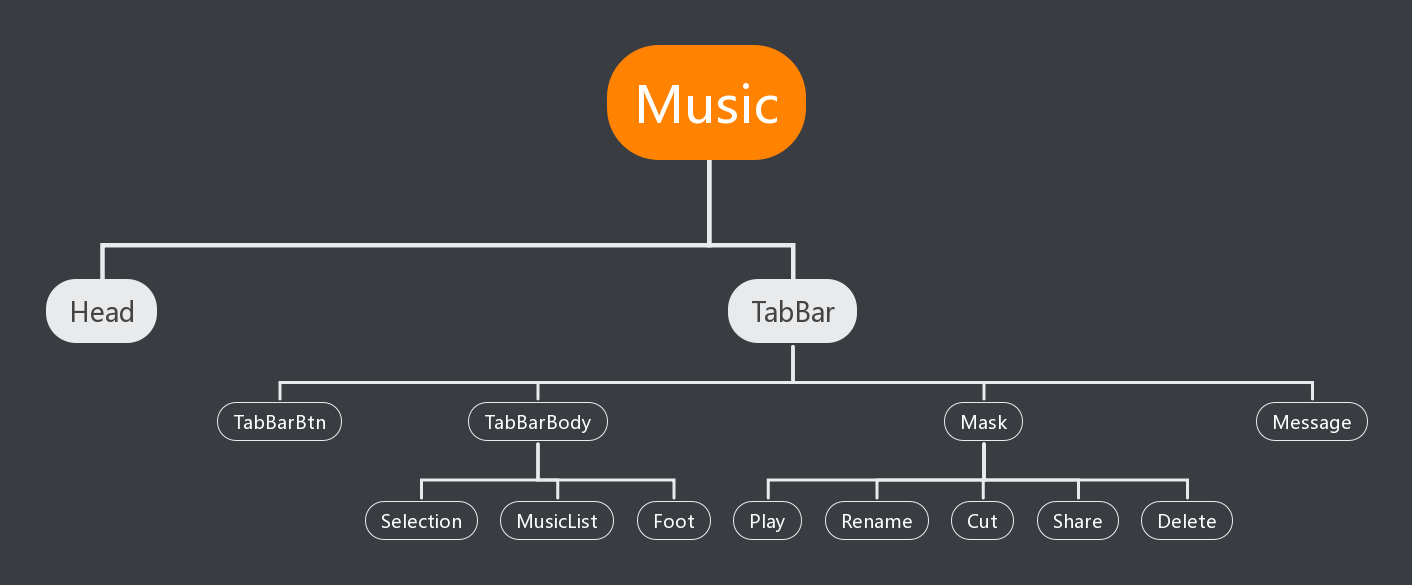
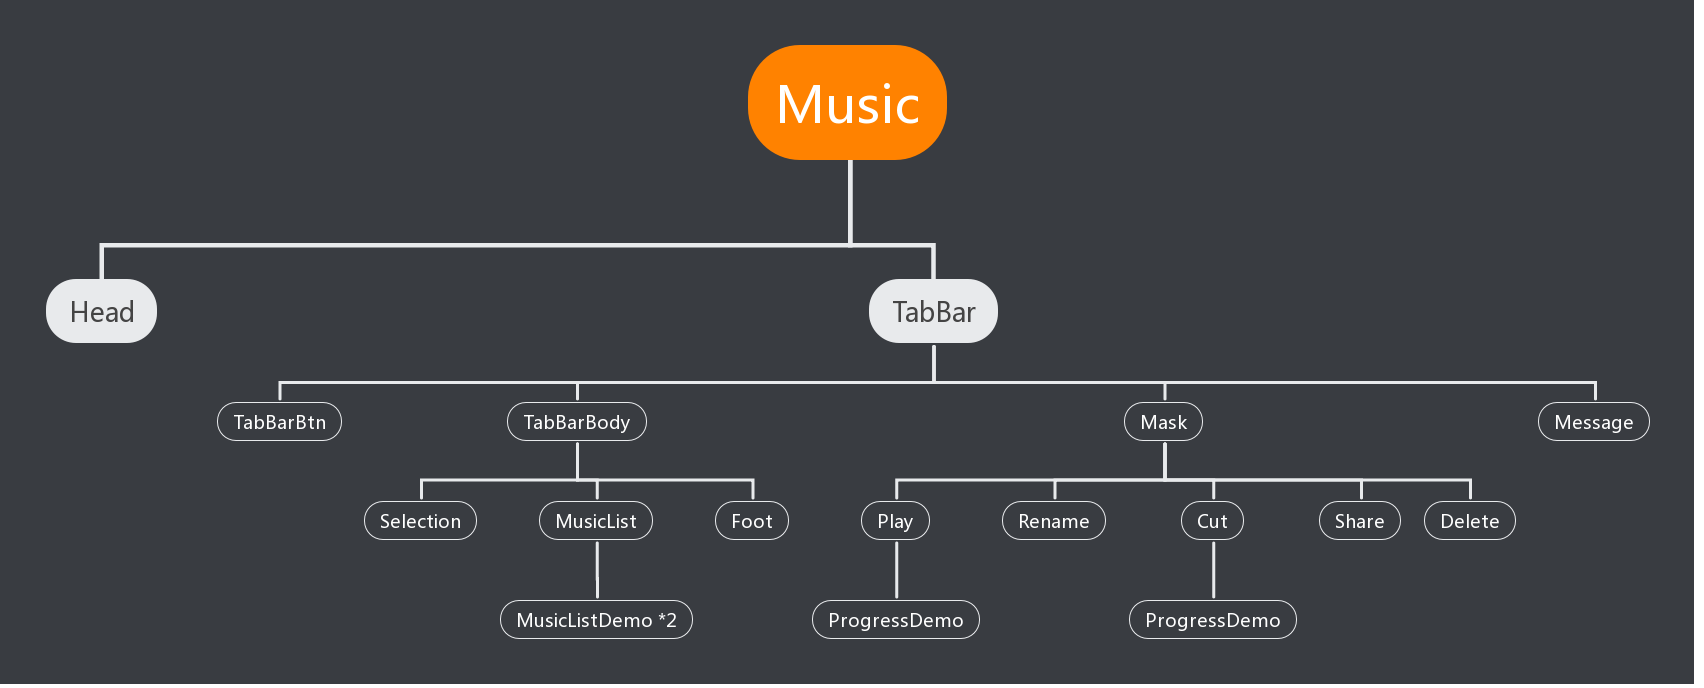
08.28

diff --git a/src/components/Music/Mask/progressDemo.js b/src/components/Music/Mask/progressDemo.js
@@ -64,12 +64,12 @@ export default class Play extends Component {
     return `${minite}:${second}`;
   }
 
-  isShowCutMask = key => {
-    // debugger;
+  isShowCutMark = key => {
+    // if (!this.audio || this.audio.readyState < 3 || this.props[key] === null) {
     if (!this.audio || this.props[key] === null) {
-      return 'maskHide';
+      return 'markHide';
     }
-    return 'maskShow';
+    return 'markShow';
   }
 
   handleAudioChange = () => {
@@ -199,13 +199,13 @@ export default class Play extends Component {
             src={imgs.music_start}
             alt=""
             style={{ marginLeft: this.getCutMaskPosition('bmt') }}
-            className={`cutImgInProgress ${this.isShowCutMask('bmt')}`}
+            className={`cutImgInProgress ${this.isShowCutMark('bmt')}`}
           />
           <img
             src={imgs.music_finish}
             alt=""
             style={{ marginLeft: this.getCutMaskPosition('emt') }}
-            className={`cutImgInProgress ${this.isShowCutMask('emt')}`}
+            className={`cutImgInProgress ${this.isShowCutMark('emt')}`}
           />
           <div
             style={{ marginLeft: this.state.marginLeft, width: this.state.currentWidth }}

diff --git a/src/components/Music/Mask/mask.css b/src/components/Music/Mask/mask.css
@@ -104,10 +104,10 @@
   width: 6px;
   height: 20px;
 }
-.maskHide {
+.markHide {
   display: none;
 }
-.maskShow {
+.markShow {
   display: block;
 }
 
@@ -168,7 +168,7 @@
 }
 .textArea {
   font-size: 18px;
-  padding: 20px 30px;
+  padding: 30px 30px;
   text-align: center;
   border-bottom: .5px solid #ddd;
   height: 70%;

diff --git a/src/containers/MyMusic.js b/src/containers/MyMusic.js
@@ -14,12 +14,7 @@ class MyMusic extends React.Component {
 
   render() {
     const {
-      user,
-      myMusic,
-      recommendMusic,
-      Actions,
-      currentMusic,
-      selectedMusicIds
+      user, myMusic, recommendMusic, Actions, currentMusic, selectedMusicIds
     } = this.props;
     return (
       <div>

diff --git a/src/components/Music/Music.js b/src/components/Music/Music.js
@@ -3,12 +3,7 @@ import Head from './Head/head';
 import TabBar from './TabBar/tabBar';
 
 const Music = ({
-  user,
-  myMusic,
-  recommendMusic,
-  currentMusic,
-  selectedMusicIds,
-  Actions
+  user, myMusic, recommendMusic, currentMusic, selectedMusicIds, Actions
 }) => (
   <div className="Music">
     <Head

diff --git a/src/components/Music/Mask/cut.js b/src/components/Music/Mask/cut.js
@@ -90,7 +90,6 @@ export default class Cut extends Component {
           clear: true
         }
       });
-      this.handleCutMusic();
     } else {
       this.props.onMessageShow('截取音乐长度不能小于10S哦！');
     }

diff --git a/README.md b/README.md
@@ -14,7 +14,21 @@
 * 除了Head都可以看作是TabBar的子组件
 * Message：消息提示组件，在Cut、Foot、MusicList部分都有用到
 * Selection：单选和多选组件
-* Cut组件和Play组件中的进度条部分复用ProgressDemo
+* ProgressDemo组件：Cut组件和Play组件中的进度条部分复用ProgressDemo
+* MusicListDemo组件：在MusicList组件中调用两次，分别传入我的音乐和推荐音乐相关信息
+
+4、TabBar组件
+* state：
+![2](./helpImg/TabBarState.png)
+* 方法：修改以上属性的方法
+* 将这些属性和方法传给子组件，控制页面渲染。某个子组件修改数据后，兄弟组件也会同步
+
+5、Cut组件
+* Cut组件需要知道ProgressDemo组件的audio的当前时间
+* 调用ProgressDemo组件，传入bmt、emt、以及获取audio当前时间的回调函数。
+
+6、ProgressDemo组件
+* state：
 
 4、问题
 * Message组件的显示or隐藏问题
